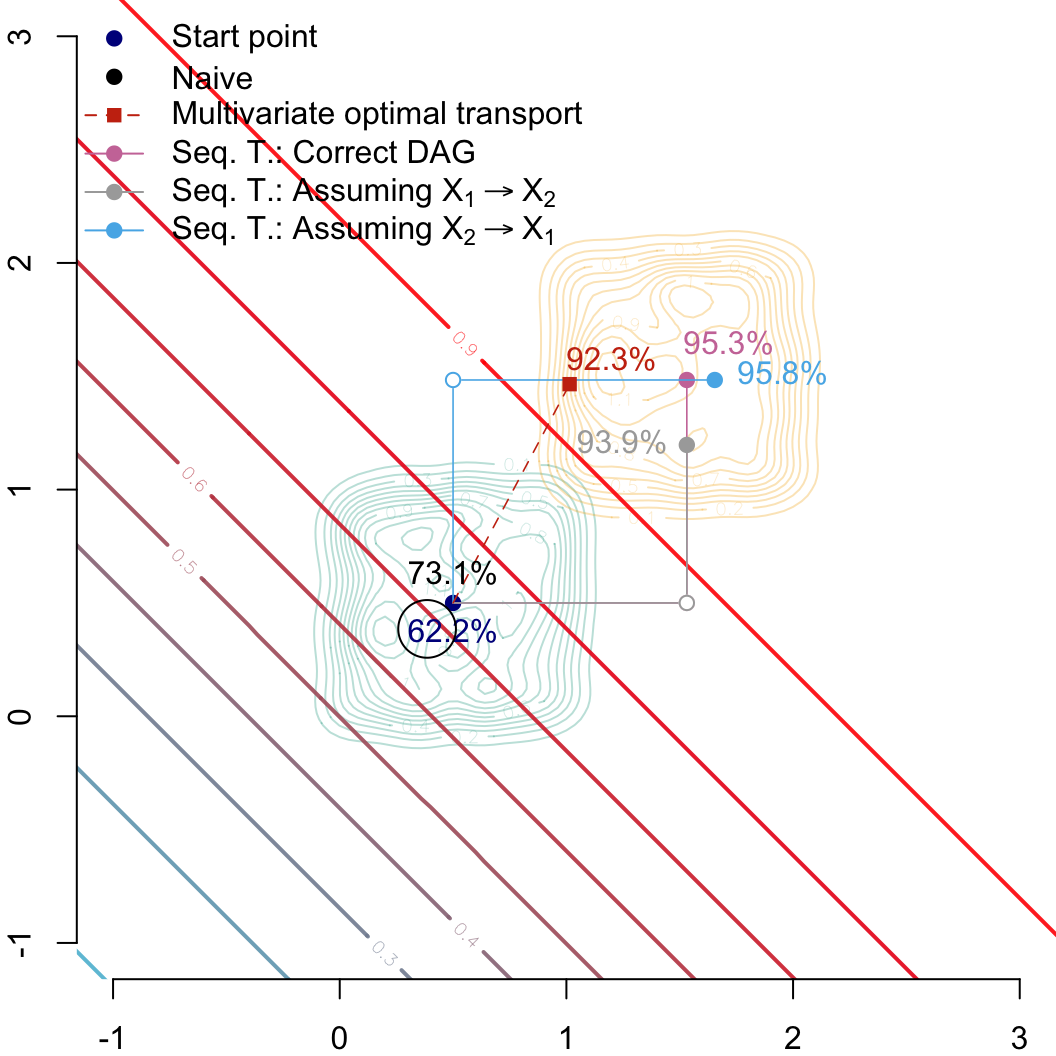
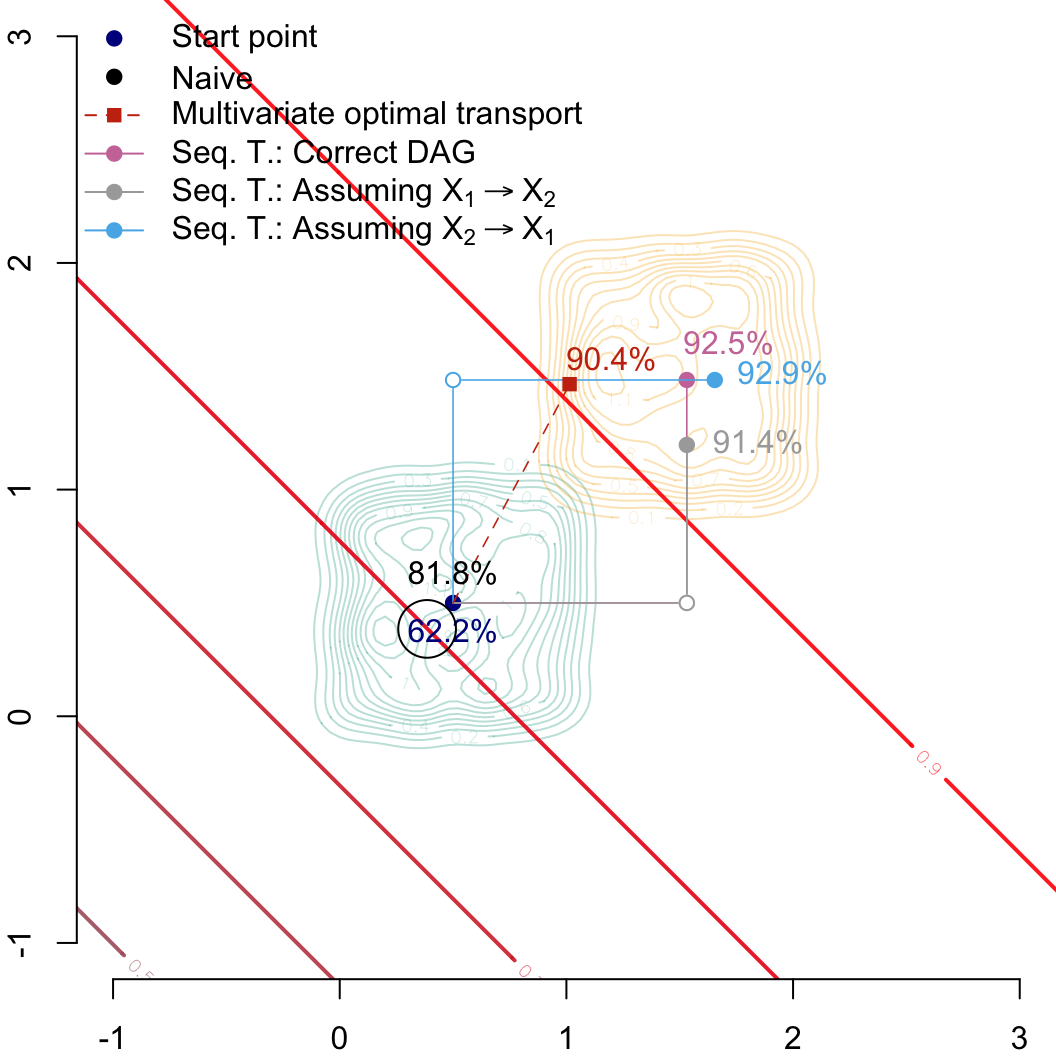
change the dgp

diff --git a/docs/gaussian-dep.html b/docs/gaussian-dep.html
@@ -979,7 +979,7 @@ m(x_1,x_2,s)=\big(1+\exp\big[-\big((x_1+x_2)/2 + \boldsymbol{1}(s=1)\big)\big]\b
 <span id="cb47-4"><a href="#cb47-4" aria-hidden="true" tabindex="-1"></a><span class="co">#' @param x2 second numerical predictor</span></span>
 <span id="cb47-5"><a href="#cb47-5" aria-hidden="true" tabindex="-1"></a><span class="co">#' @param s sensitive attribute (0/1)</span></span>
 <span id="cb47-6"><a href="#cb47-6" aria-hidden="true" tabindex="-1"></a>logistique_reg <span class="ot">&lt;-</span> <span class="cf">function</span>(x1, x2, s) {</span>
-<span id="cb47-7"><a href="#cb47-7" aria-hidden="true" tabindex="-1"></a>  eta <span class="ot">&lt;-</span> (x1 <span class="sc">+</span> x2) <span class="sc">/</span> (<span class="dv">2</span> <span class="sc">-</span> s)</span>
+<span id="cb47-7"><a href="#cb47-7" aria-hidden="true" tabindex="-1"></a>  eta <span class="ot">&lt;-</span> (x1 <span class="sc">+</span> x2) <span class="sc">/</span> <span class="dv">2</span> <span class="sc">+</span> s</span>
 <span id="cb47-8"><a href="#cb47-8" aria-hidden="true" tabindex="-1"></a>  <span class="fu">exp</span>(eta) <span class="sc">/</span> (<span class="dv">1</span> <span class="sc">+</span> <span class="fu">exp</span>(eta))</span>
 <span id="cb47-9"><a href="#cb47-9" aria-hidden="true" tabindex="-1"></a>}</span></code><button title="Copy to Clipboard" class="code-copy-button"><i class="bi"></i></button></pre></div>
 </div>
@@ -1227,7 +1227,7 @@ Figure&nbsp;5.5: In the background, level curves for <span class="math inline">\
 <span id="cb53-112"><a href="#cb53-112" aria-hidden="true" tabindex="-1"></a>)</span>
 <span id="cb53-113"><a href="#cb53-113" aria-hidden="true" tabindex="-1"></a><span class="do">## New predicted value</span></span>
 <span id="cb53-114"><a href="#cb53-114" aria-hidden="true" tabindex="-1"></a><span class="fu">text</span>(</span>
-<span id="cb53-115"><a href="#cb53-115" aria-hidden="true" tabindex="-1"></a>  coords_indep<span class="sc">$</span>inc_x1_then_x2[<span class="dv">1</span>], coords_indep<span class="sc">$</span>inc_x1_then_x2[<span class="dv">2</span>],</span>
+<span id="cb53-115"><a href="#cb53-115" aria-hidden="true" tabindex="-1"></a>  coords_indep<span class="sc">$</span>inc_x1_then_x2[<span class="dv">1</span>]<span class="sc">+</span><span class="fl">0.6</span>, coords_indep<span class="sc">$</span>inc_x1_then_x2[<span class="dv">2</span>],</span>
 <span id="cb53-116"><a href="#cb53-116" aria-hidden="true" tabindex="-1"></a>  <span class="fu">paste</span>(<span class="fu">round</span>(predicted_val[[<span class="st">"inc_x1_then_x2"</span>]]<span class="sc">*</span><span class="dv">100</span>,<span class="dv">1</span>),<span class="st">"%"</span>,<span class="at">sep=</span><span class="st">""</span>),</span>
 <span id="cb53-117"><a href="#cb53-117" aria-hidden="true" tabindex="-1"></a>  <span class="at">pos =</span> <span class="dv">2</span>, <span class="at">cex =</span> CeX, <span class="at">col =</span> colour_inc_x1_then_x2</span>
 <span id="cb53-118"><a href="#cb53-118" aria-hidden="true" tabindex="-1"></a>)</span>
